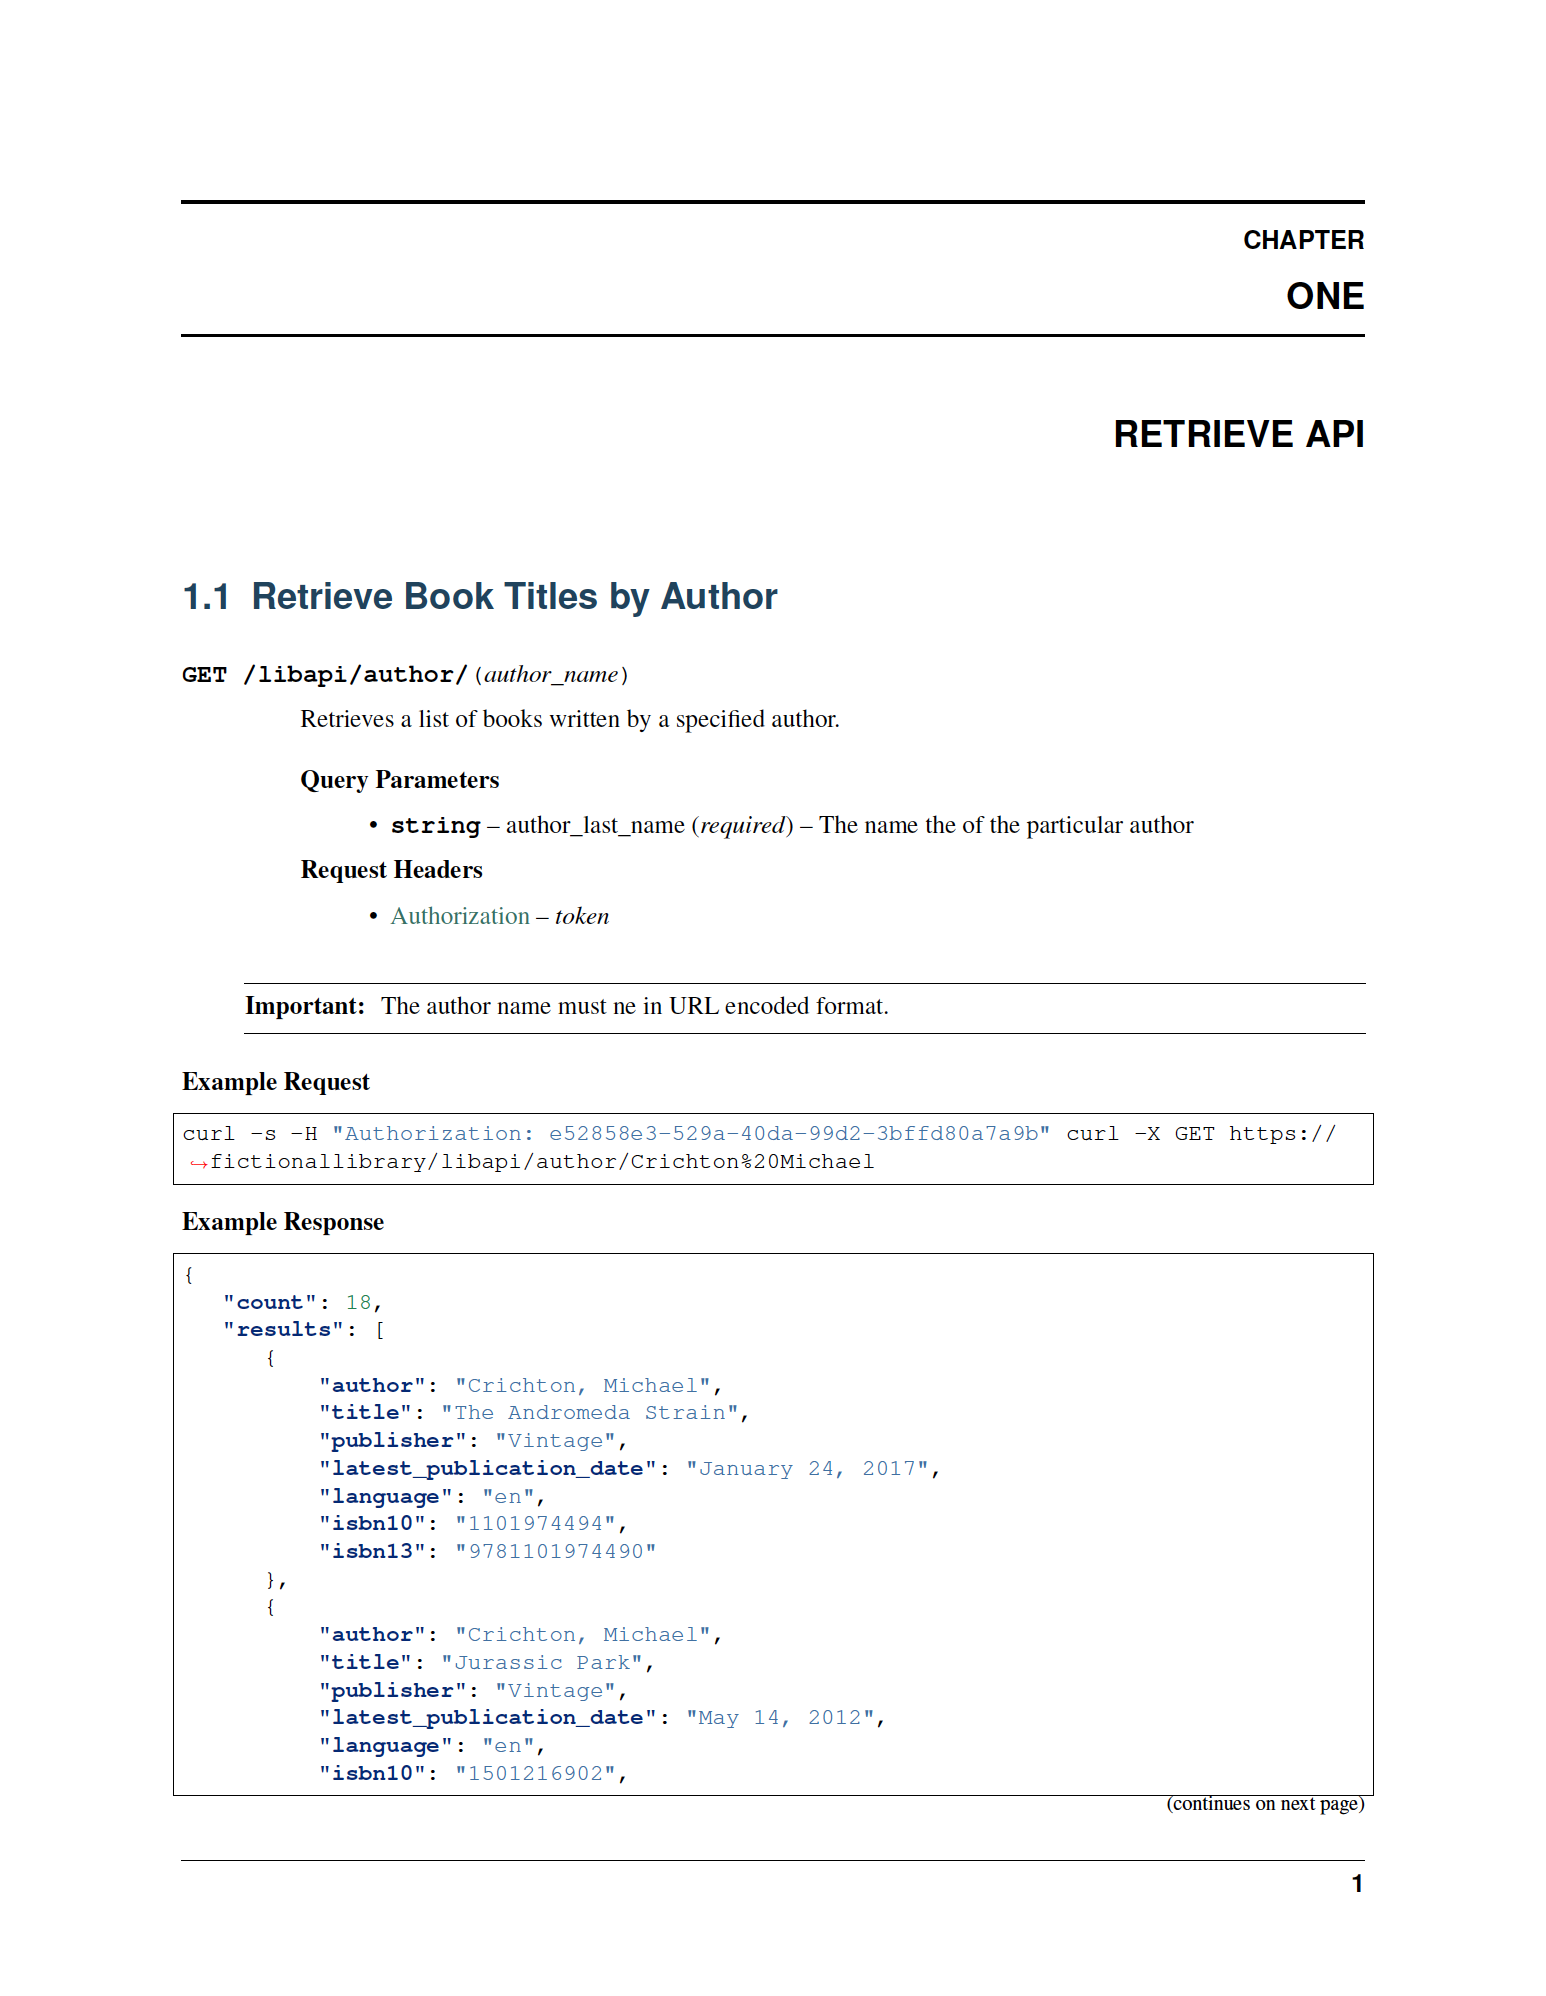
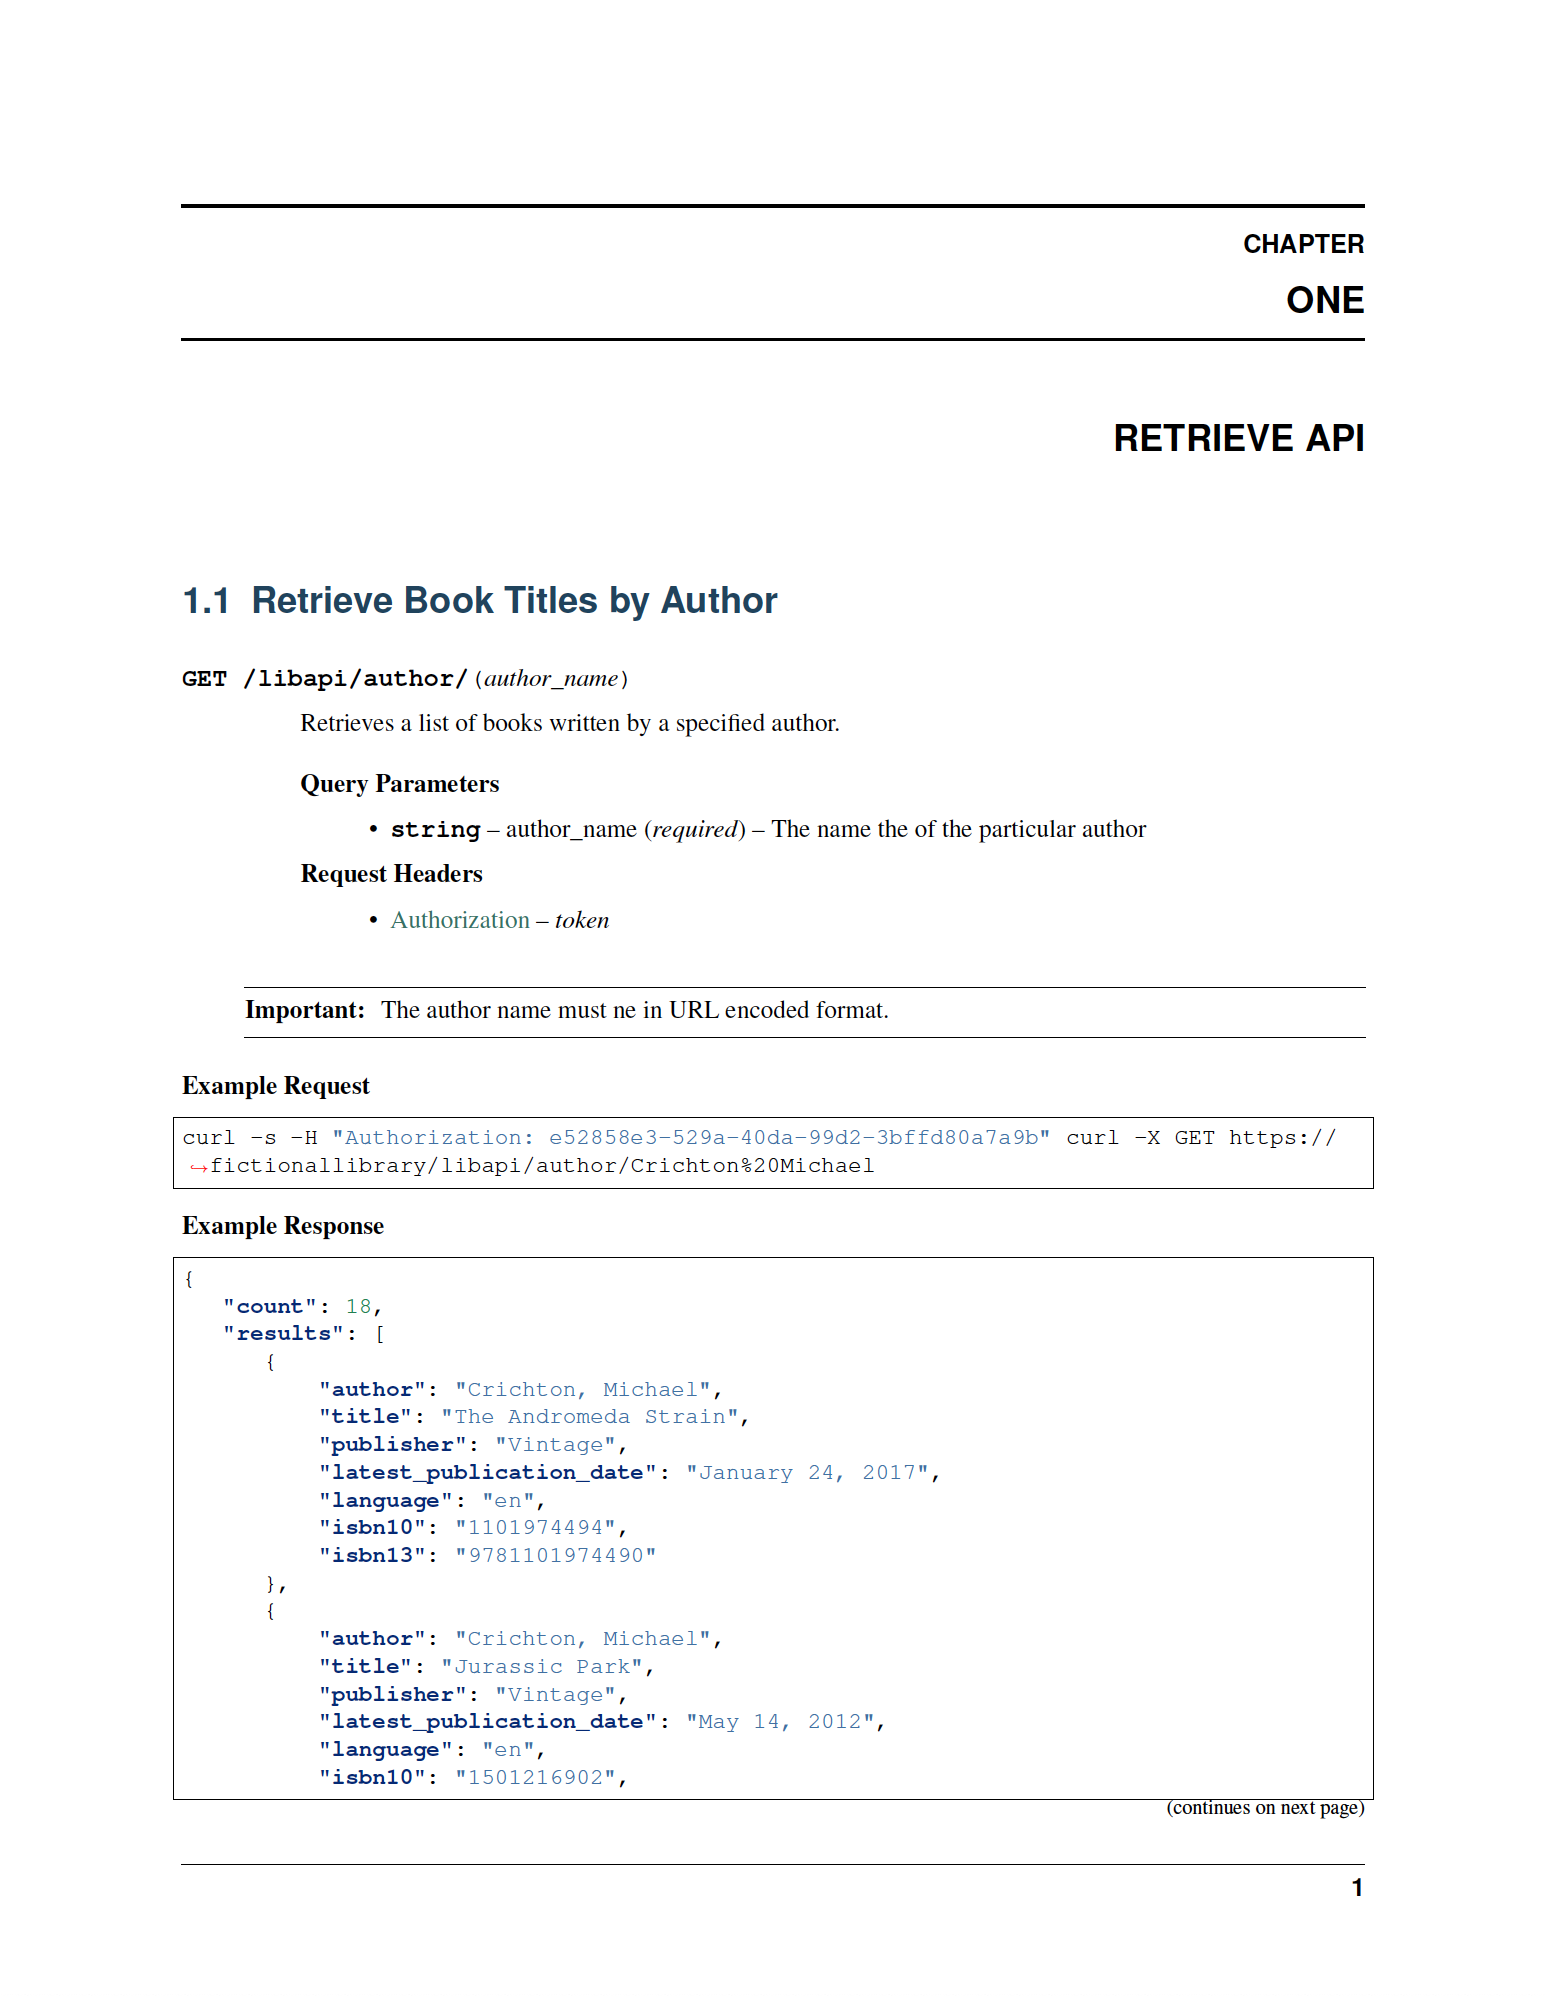
Fixed retrieve API text and graphics to they are consistent

diff --git a/_posts/2020-01-11-read-the-docs-made-simple-2.md b/_posts/2020-01-11-read-the-docs-made-simple-2.md
@@ -182,12 +182,12 @@ The APIs that you will document are based on a ficticious library database that 
 Retrieve Book Titles by Author
 ------------------------------
 
-.. http:get:: /libapi/author/(name)
+.. http:get:: /libapi/author/(author_name)
    :noindex:
    
      Retrieves a list of books written by a specified author.
 	 
-   :query string:  name (*required*) -- The name the of the particular author
+   :query string:  author_name (*required*) -- The name the of the particular author
    
    :requestheader Authorization: `token`
    
